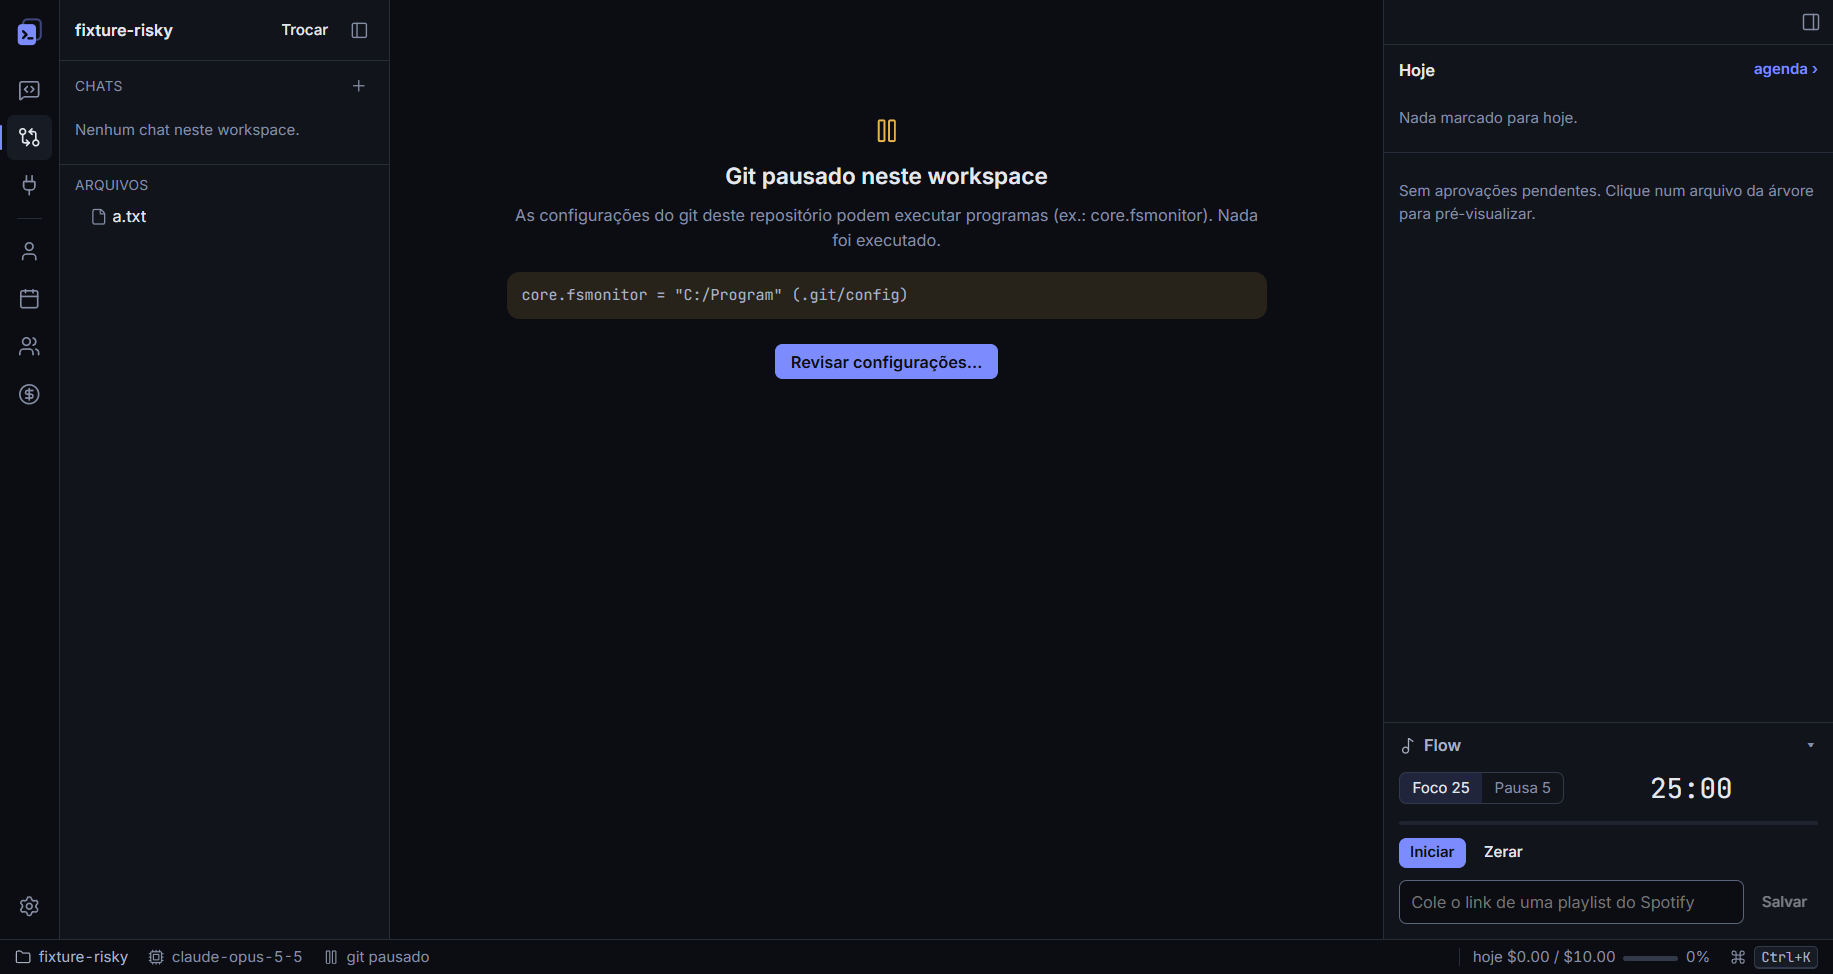
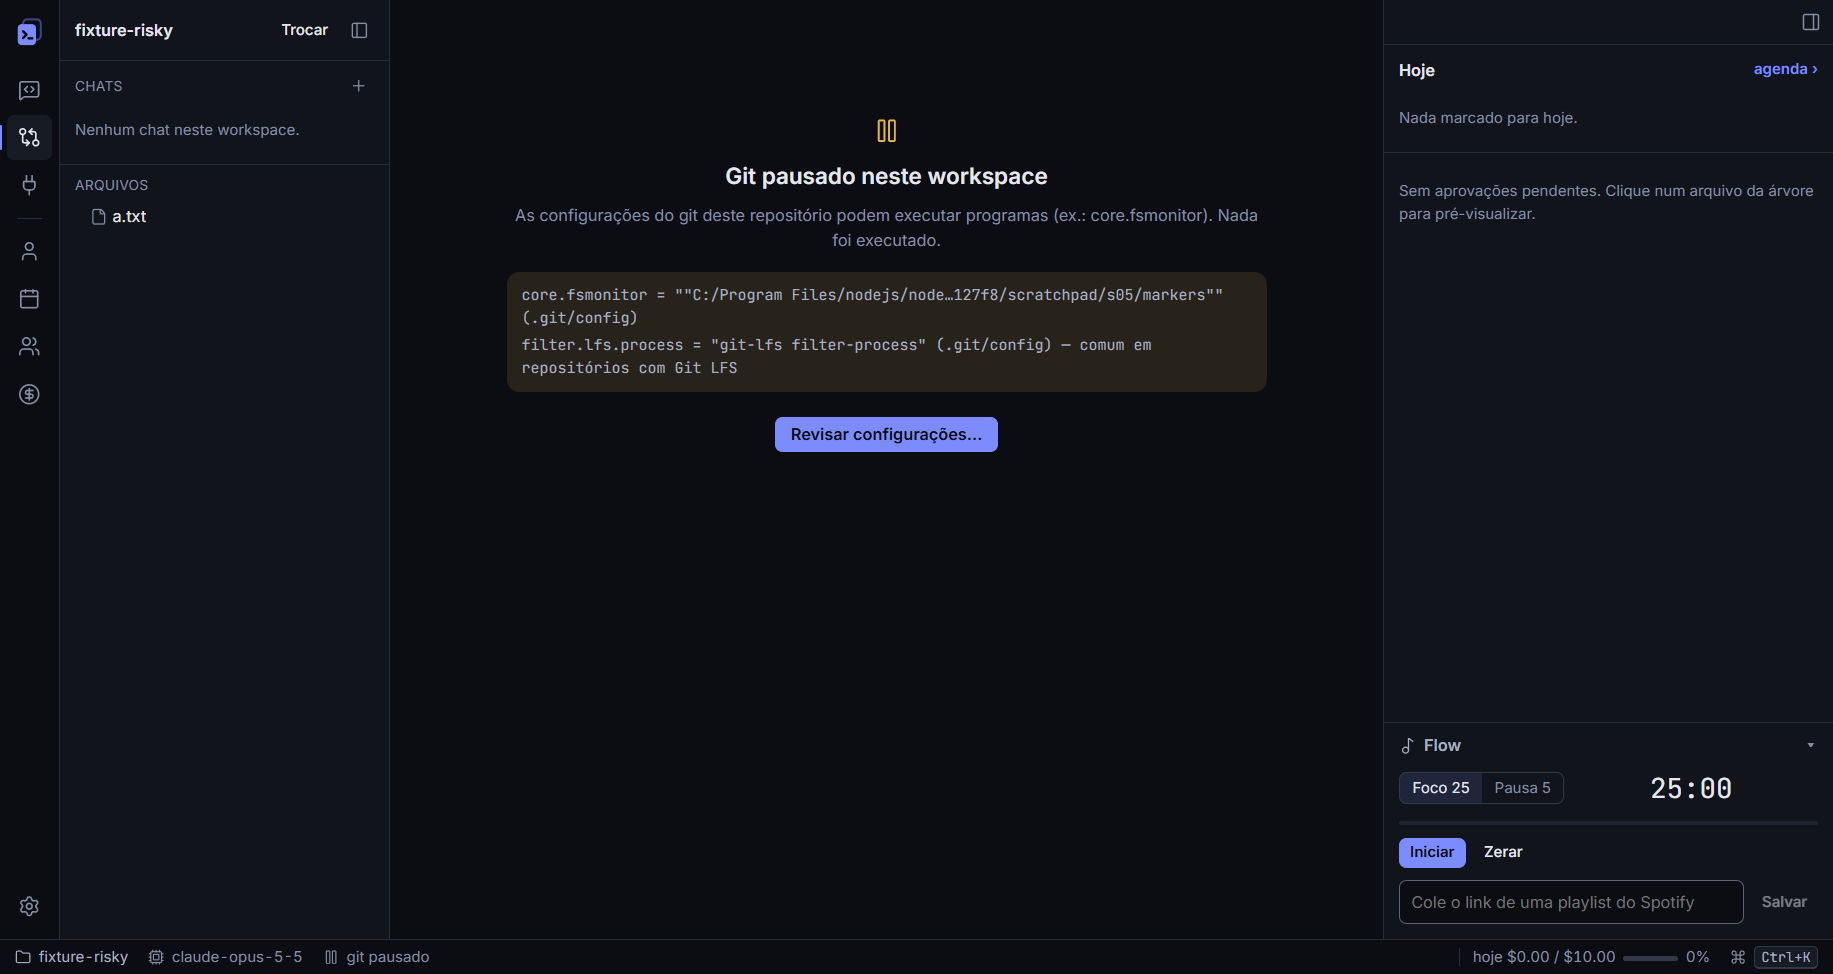
docs: fechamento da Sprint 05 (QA, security review, riscos, roteiro, retro)

Changed region(s): [[0.2488, 0.2772, 0.7152, 0.462]]

diff --git a/src/main/lib/gitproc.ts b/src/main/lib/gitproc.ts
@@ -132,7 +132,7 @@ export function agentEnv(base: Env, platform: NodeJS.Platform, root: string, git
     out[k] = /^path$/i.test(k) ? safePathEntries(v, platform, root).join(platform === 'win32' ? ';' : ':') : v
   }
   Object.assign(out, forcedConfigEnv())
-  // Windows: CreateProcess/cmd não procuram executável na pasta atual.
+  // Windows: shells e runtimes que respeitam esta variável não procuram executável na pasta atual (conferir no roteiro manual).
   if (platform === 'win32') out.NoDefaultCurrentDirectoryInExePath = '1'
   // Sempre: o git do agente nunca sobe acima do workspace (subpasta de um repo não acha o .git do pai, que não foi inspecionado).
   out.GIT_CEILING_DIRECTORIES = pathOf(platform).dirname(root)

diff --git a/docs/sprints/sprint-05.md b/docs/sprints/sprint-05.md
@@ -1,6 +1,6 @@
 # Sprint 05 — Distribuição segura
 
-**Período:** 2026-11-23 → 2026-12-07 · **Versão alvo:** v0.5.0 · **Status:** em andamento
+**Período:** 2026-11-23 → 2026-12-07 · **Versão alvo:** v0.5.0 · **Status:** em fechamento (pendências manuais)
 
 ## Objetivo
 Distribuir o DevDeck como instalador Windows verificável, sem que abrir um repositório recebido pronto execute código pelo git.
@@ -152,28 +152,97 @@ Tema claro + migração do `@layer legacy` (Sprint 06, juntos) · assinatura de 
 | Migration `0002` + teste SQL | Back | ✅ código · ⏳ execução (sem Postgres local: rodar `supabase test db` ou SQL Editor) |
 | H05.8 credencial na URL de MCP (Could) | Back | ✅ |
 | H05.9 varredura de camadas CSS (Could) | Front | ✅ |
-| ADR-011, ADR-018, ADR-019, emendas 013/015 | TL | ⏳ |
+| ADR-011, ADR-018, ADR-019, emendas 013/015 | TL | ✅ `eeb7a1a` |
+| Achados do QA e do security review | Back/Front/DevOps | ✅ `a75207f` |
 
 ## QA
+Execução do agente `qa` no HEAD `eeb7a1a`, depois revalidada em `a75207f`: typecheck, 936 testes (54 arquivos, dois fusos; integração com git real), build, `verify-fuses` (7 fuses), `verify-sdk` (controle negativo: 1 byte a mais → saída 1), `check-tag` (tag certa 0, errada 1).
+
 | Caso | Resultado | Evidência |
 |---|---|---|
+| H05.1 nenhum comando do repo executa + controle positivo | ✅ | `tests/integration/git-exec.test.ts` (fsmonitor, clean, smudge, textconv, `diff.external`, hooksPath, `post-index-change`, submódulo); git puro cria os marcadores, o DevDeck não |
+| Lista de permitidas, maiúsculas, include, worktree, `lfs.url` | ✅ | `tests/unit/main/gitconfig.test.ts` |
+| `.git` como gitdir/link/commondir/worktrees/config.worktree | ✅ (link/junction só simulado) | `gitconfig.test.ts`; `gitdir:` real na integração |
+| `git.exe` plantado não roda | ✅ DevDeck · ⏳ SDK | integração; SDK no roteiro manual |
+| Prefixo `-c`, env por lista, sem `GIT_*`, sem submódulo | ✅ | `tests/unit/main/gitproc.test.ts`; integração "não vazam" e "submódulo" |
+| Env restrito do SDK (inclusive subpasta de repo) | ✅ código · ⏳ marcador | `agentEnv` com teto sempre; roteiro manual passo 4 |
+| UI "Git pausado", status bar, `.catch`/corrida | ✅ · ⏳ NVDA | `sprint-05/evidencias/h05.1-git-pausado.png`, `h05.1-repo-limpo.png` |
+| H05.2 UI empacotada por `app://` com GrantFileProtocol off | ✅ | `evidencias/h05.2-app-empacotado.png` (sem erro de CSP; `DEVDECK_*` ignoradas) |
+| Fuses, hash do SDK, versões exatas, depuração recusada | ✅ | `verify-fuses`, `verify-sdk`, `cli.test.ts` (prefixos `--`, `-`, `/`); `--remote-debugging-port` → saída 1 no `.exe` |
+| Sem UAC, atualizar preserva dados, desinstalar mantém, chat no instalado | ⏳ | roteiro manual H05.7 |
+| Instalador 238 MB / instalado 757 MB | ✅ | `dist/DevDeck-Setup-*.exe`, ADR-011 |
+| H05.3 check-tag, jobs separados, SHAs, sem cache | ✅ | `tests/unit/scripts/check-tag.test.ts`, `release.yml` |
+| actionlint/zizmor e dry run | ⏳ | ferramentas fora desta máquina; dry run no GitHub |
+| H05.4 8 `it.todo` | ✅ | 0 restantes; CI falha se voltar |
+| Diff de 2 MB/20 mil linhas, "Aprovar todas" desabilitado | ✅ | `diffRows.test.ts` (< 500 ms); `decide()` recusa no main |
+| H05.5 chaves desconhecidas; "Sempre" por caminho e só com extrator | ✅ | `trust.test.ts`, `toolpath.test.ts` |
+| H05.6 migration 0002 | ✅ código · ⏳ execução | `supabase/tests/0002_rate_limit.sql` (com controle positivo); sem Postgres local |
+| H05.8 credencial na URL de MCP | ✅ | `secrets.test.ts` |
+| H05.9 camadas CSS | ✅ | `css-layers.test.ts` (já pegou o `.badge` reusado no card) |
+
+**Bugs do QA (todos corrigidos em `a75207f`):** subpasta de repo deixava o SDK achar o `.git` do pai (alta); descartar `[ab].txt` descartava `a.txt` e `b.txt` (glob → `--literal-pathspecs`); "Sempre" em Bash/MCP; prefixos `-`/`/`; aviso "git não encontrado" sem repo; `include.path` fora do hash (confiança só na execução); status bar desatualizada após confiar e respostas fora de ordem; `decide()` só bloqueava no renderer; job de release sem Node 24; chaves `x-api-key`/`private_token`; `skipIf` silencioso no CI; pgTAP sem controle positivo.
 
 ## Security review
+Agente `cybersecurity` no HEAD `eeb7a1a`; revalidação em `a75207f`.
+
+| Bloqueante | Fechamento | Evidência |
+|---|---|---|
+| Parser próprio diverge do git | ✅ | `git config --file … --no-includes` fora do workspace (`gitcore.ts`, `gitproc.ts`) |
+| Lista de permitidas por chave exata | ✅ (acréscimos `remote.*.prune/tagopt`, `branch.*.pushremote/description/vscode-merge-base` aceitos) | `lib/gitconfig.ts` |
+| Estrutura do `.git` | ✅ | `readGitShape` (lstat) |
+| Hooks, env e `-c` fixos | ✅ | `gitArgs`, `gitEnv`, integração |
+| Git do SDK sem confiança | ✅ | `agentEnv` |
+| `mcpServersDelivery` | ✅ | `agent.ts` |
+| GrantFileProtocolExtraPrivileges desligada | ✅ mitigação aceita | `app://` com `standard/secure/supportFetchAPI`, `resolveAppAsset`, `isAppUrl` exige `/index.html` |
+| **Submódulo executa filtro (achado na review)** | ✅ `a75207f` | `FORCED_GIT_CONFIG` por env no DevDeck e no agente, `--ignore-submodules=all`, teste com controle positivo |
+
 | Severidade | Onde | Achado | Mitigação |
 |---|---|---|---|
+| bloqueante | `gitcore.ts` | Config do pai limpa, mas o status entrava no submódulo e rodava o filtro dele | ✅ corrigido (`a75207f`) |
+| alta | `lib/toolpath.ts` | "Sempre" em Bash/WebFetch/MCP sem extrator (`cat ~/.ssh/id_*`) | ✅ `alwaysEligible` |
+| média | `lib/cli.ts` | Prefixos `-` e `/` do Chromium no Windows | ✅ regex + `app.commandLine.hasSwitch` |
+| média | `lib/gitproc.ts` | PATH cru no agente (`git.exe` plantado) | ✅ PATH filtrado, `NoDefaultCurrentDirectoryInExePath`, teto sempre · ⏳ conferir no instalado |
+| baixa | `agent.ts` | `alwaysForSession` aceito com prévia parcial | ✅ recusado no main |
+| baixa | `mcp.ts` | Import do `~/.claude.json` com token na URL | ✅ servidor não importado |
+| baixa | `gitTrust.ts` | Cache do gate por lstat | aceito (exige código local já rodando) |
+| baixa | `sdk-hashes.json` | Só `claude.exe` e `sdk.mjs` | aceito (`npm ci` confere o lockfile) |
+| baixa | `release.yml` | Quem tem push cria tag `v*` | aceito se o ruleset de tag `v*` for configurado antes da primeira tag |
+| baixa | `gitproc.ts` | Repositório embutido (gitlink sem `.git/modules`) sem teste próprio | backlog (mesmo caminho do submódulo) |
+
+- **Veredito:** ✅ Cybersecurity não bloqueia. H05.3 fecha após o dry run e H05.6 após o pgTAP rodado como `authenticated` (critérios de aceite, não riscos).
 
 ## Riscos aceitos
 - **Baixa:** filtros da config global/sistema do usuário (ex.: LFS) disparados pelo `.gitattributes` de um repo com `.git/config` limpo — config do próprio usuário (ADR-018).
 - **Baixa:** `app.asar.unpacked` fora da integridade do asar; hash do `claude.exe` só no build.
 - **Baixa:** instalador sem assinatura → SmartScreen. Mitigação: SHA-256, attestation, VirusTotal antes de publicar.
-- **Baixa:** sem confiança, o git do agente também fica indisponível (intencional, documentado na UI).
-- **Condicional:** GrantFileProtocolExtraPrivileges desligada quebrar o `loadFile` → só com mitigação e aval de Cybersecurity.
+- **Baixa:** sem confiança, o git do agente também fica indisponível (intencional, documentado na UI). Workspace aberto numa subpasta de repo: o agente não usa o git do pai.
+- **Baixa:** cache do gate por lstat; `sdk-hashes` de dois arquivos; tag `v*` sem ruleset até o usuário configurar.
 - **Baixa:** Linux `basic_text` sem verificação manual, se não houver máquina.
 
+## Pendências para fechar
+1. Roteiro manual da H05.7 no app instalado (lista abaixo), com prints em `docs/sprints/sprint-05/manual/`.
+2. `supabase test db` (ou SQL Editor) com `supabase/tests/0002_rate_limit.sql`.
+3. Dry run do `release.yml` (`workflow_dispatch`) depois do push; ruleset de tag `v*` no GitHub antes da tag `v0.5.0`.
+
+### Roteiro manual (H05.7)
+1. Hash dos dados antes: `Get-ChildItem $env:APPDATA\DevDeck -Recurse -File | Get-FileHash | Sort Path > antes.txt`.
+2. Instalar `dist\DevDeck-Setup-0.5.0.exe` numa conta sem admin: sem UAC, app em `%LOCALAPPDATA%\Programs\DevDeck`, ícone no Menu Iniciar, área de trabalho e barra (100/150/200%).
+3. Chat no instalado responde; `Get-CimInstance Win32_Process -Filter "name='claude.exe'"` mostra caminho em `app.asar.unpacked` e linha de comando sem token de MCP.
+4. Marcador do SDK: repo com `filter.evil.clean` que grava `%TEMP%\marcador-sdk.txt`, `.gitattributes` `* filter=evil` e arquivo com data no futuro. "Abrir sem git" + mensagem → sem marcador. Controle: "Confiar e usar git" + chat novo → marcador aparece. Repetir abrindo uma subpasta do repo e com `git.exe` falso na raiz.
+5. Atualizar por cima (nova build) e comparar `depois.txt` com `antes.txt`; chats, conquistas e segredos continuam.
+6. Desinstalar: `%APPDATA%\DevDeck` continua.
+7. Depuração: `DevDeck.exe --remote-debugging-port=9222`, `-remote-debugging-port=9222`, `/remote-debugging-port=9222` e `--inspect` saem; `curl http://127.0.0.1:9222/json/version` falha.
+8. ABNT2: `ç Ç á ã ê ~ ^` no chat e no comentário; AltGr+Q/W/E; Alt+A/Alt+R não disparam com AltGr.
+9. NVDA: "Git pausado neste workspace" e "Revisar configurações…", diálogo nativo, card de aprovação com selo, "Aprovar todas" indisponível com prévia parcial.
+10. Aprovação real com painel recolhido, a ~900 px e a 1280×720.
+11. MCP HTTP com header e ICS real: `findstr /s /i "<token>" "%APPDATA%\DevDeck\*"` não acha nada; URL com `?token=` é recusada.
+
 ## Entregas
-- …
+- v0.5.0: instalador NSIS per-user verificável (fuses, hash do SDK, `app://`), release em rascunho com SHA-256 e attestation, git sem executar código do repositório (B3 fechado), confiança e "Sempre" estritos, agenda/diff corrigidos, limite de curtidas e denúncias, varredura de camadas CSS.
+- ADRs 011, 018, 019 e emendas 013/015. `CHANGELOG.md` 0.5.0, READMEs EN/PT com instalação.
+- Processo: debate só com papéis convocados (matriz no planning, réplica nos conflitos).
 
 ## Retro
-- **Funcionou:**
-- **Melhorar:**
-- **Ações:**
+- **Funcionou:** a réplica resolveu 11 conflitos de uma vez e o PO decidiu com os argumentos lado a lado (parser próprio × `git config --file`, simple-git × wrapper). Controle positivo nos testes de segurança: todo teste de marcador prova que o fixture dispara com git puro, então "passou" significa algo. O smoke do app empacotado pegou o `file://` quebrado pela fuse no mesmo dia, como o debate tinha previsto. A varredura de camadas (H05.9) pegou um `.badge` reusado no primeiro run.
+- **Melhorar:** o security review achou um bypass (submódulo) que nenhum papel levantou no debate, e o QA achou a subpasta de repo: o modelo de ameaça do B3 olhou só para a raiz. Escapes em heredoc/Python voltaram a quebrar arquivos (terceira sprint seguida). PowerShell 5.1 grava BOM e quebrou um JSON de teste.
+- **Ações:** checklist de ameaça do git no template (raiz, pai, submódulo, worktree, binário no PATH); código com escape só por Edit/Write, nunca por heredoc; `[IO.File]::WriteAllText` ou node para arquivos lidos por outras ferramentas; rodar pgTAP no CI quando houver Supabase local.

diff --git a/CHANGELOG.md b/CHANGELOG.md
@@ -24,12 +24,14 @@ Todas as mudanças relevantes do DevDeck. Formato [Keep a Changelog](https://kee
 - Links de reunião aceitavam domínios parecidos (ex.: `evilzoom.us`); agora só o host exato de Teams, Meet e Zoom.
 - Prévia de Edit em arquivo com quebra de linha CRLF saía vazia; o patch gravado no chat passa a vir do conteúdo real do disco (reverter continua funcionando).
 - Corrida ao trocar rápido de arquivo na aba Alterações e erro de diff que sumia em silêncio.
+- "Descartar arquivo" com colchetes ou asterisco no nome descartava outros arquivos (o caminho era lido como padrão).
 
 ### Segurança
 - **Abrir um repositório não executa mais código configurado nele (B3).** Antes de rodar o git, o DevDeck lê o `.git/config` sem executar nada; fsmonitor, filtros, textconv, `diff.external`, hooks, includes, worktrees ou `.git` apontando para fora pausam o git até você confiar. Mesmo confiado, o git roda por caminho absoluto (um `git.exe` plantado no repositório não é usado), sem variáveis `GIT_*` herdadas, com fsmonitor e hooks desligados. Sem confiança, o git que o agente rodar também não encontra o repositório.
 - Variáveis e headers de servidores MCP vão para o Claude Code pelo stdin, não mais pela linha de comando (que outros usuários da máquina conseguiam ler).
 - URL de servidor MCP com token na query ou usuário e senha é recusada; use um header.
-- `settings.json` do projeto com chave desconhecida pede confiança; "Sempre nesta sessão" só vale para caminhos dentro do workspace e o main recusa o resto; prévia parcial desabilita "Aprovar todas da sessão".
+- `settings.json` do projeto com chave desconhecida pede confiança; "Sempre nesta sessão" só vale para caminhos dentro do workspace e só para ferramentas que o DevDeck sabe onde agem: **Bash, WebFetch e ferramentas MCP passam a perguntar sempre** (o "Sempre" de MCP continua pela política "auto" de cada ferramenta). Prévia parcial desabilita "Aprovar todas da sessão", e o main recusa esses pedidos mesmo se chegarem.
+- O git do DevDeck e do agente nunca entram em submódulos (a config do submódulo não é conferida) e nunca sobem acima da pasta aberta: abrir uma subpasta de um repositório não usa o git do pai.
 - App instalado com fuses do Electron (sem `ELECTRON_RUN_AS_NODE`, `NODE_OPTIONS` e `--inspect`; integridade do asar; só carrega do asar), SDK do Claude conferido por SHA-256 no build e switches de depuração remota recusados.
 - Denúncia de conta com menos de 72 h é registrada mas não oculta post.
 
